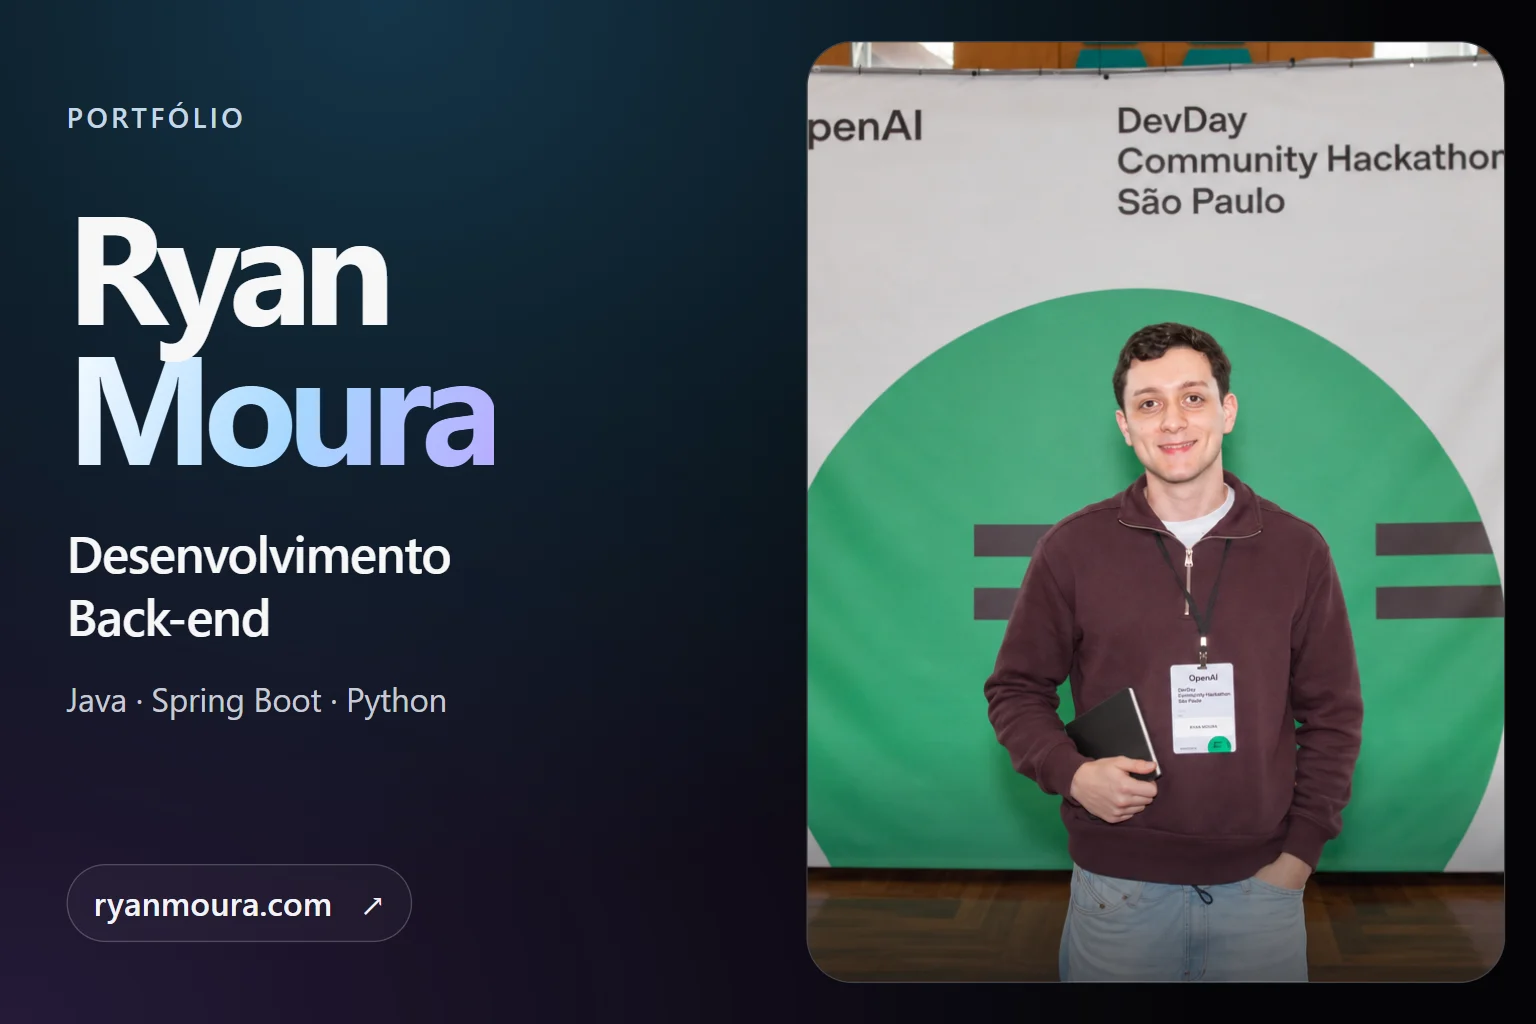
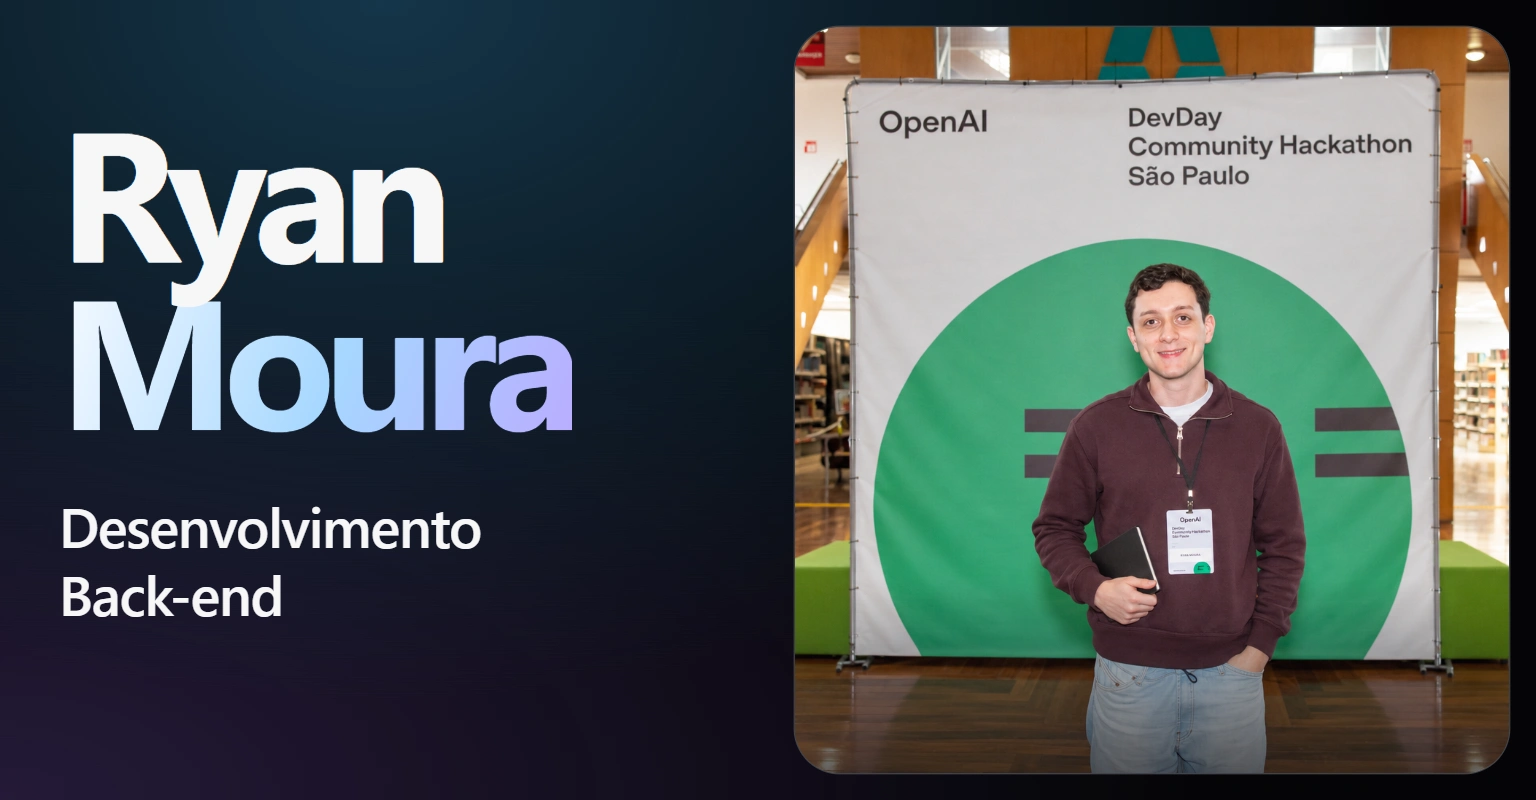
fix: adaptar capa ao cartao do LinkedIn

diff --git a/index.html b/index.html
@@ -12,14 +12,14 @@
   <meta property="og:url" content="https://www.ryanmoura.com/">
   <meta property="og:site_name" content="Ryan Moura — Portfólio">
   <meta property="og:locale" content="pt_BR">
-  <meta property="og:image" content="https://www.ryanmoura.com/assets/portfolio-preview.webp">
-  <meta property="og:image:secure_url" content="https://www.ryanmoura.com/assets/portfolio-preview.webp">
+  <meta property="og:image" content="https://www.ryanmoura.com/assets/portfolio-preview.webp?v=2">
+  <meta property="og:image:secure_url" content="https://www.ryanmoura.com/assets/portfolio-preview.webp?v=2">
   <meta property="og:image:type" content="image/webp">
   <meta property="og:image:width" content="1536">
-  <meta property="og:image:height" content="1024">
+  <meta property="og:image:height" content="800">
   <meta property="og:image:alt" content="Ryan Moura — Desenvolvimento Back-end, com foto no DevDay Community Hackathon.">
   <meta name="twitter:card" content="summary_large_image">
-  <meta name="twitter:image" content="https://www.ryanmoura.com/assets/portfolio-preview.webp">
+  <meta name="twitter:image" content="https://www.ryanmoura.com/assets/portfolio-preview.webp?v=2">
   <meta name="twitter:image:alt" content="Ryan Moura — Desenvolvimento Back-end, com foto no DevDay Community Hackathon.">
   <meta name="twitter:title" content="Ryan Moura — Desenvolvimento Back-end">
   <meta name="twitter:description" content="Conheça meus projetos em Java, Spring Boot e Python e minha trajetória em desenvolvimento back-end.">
